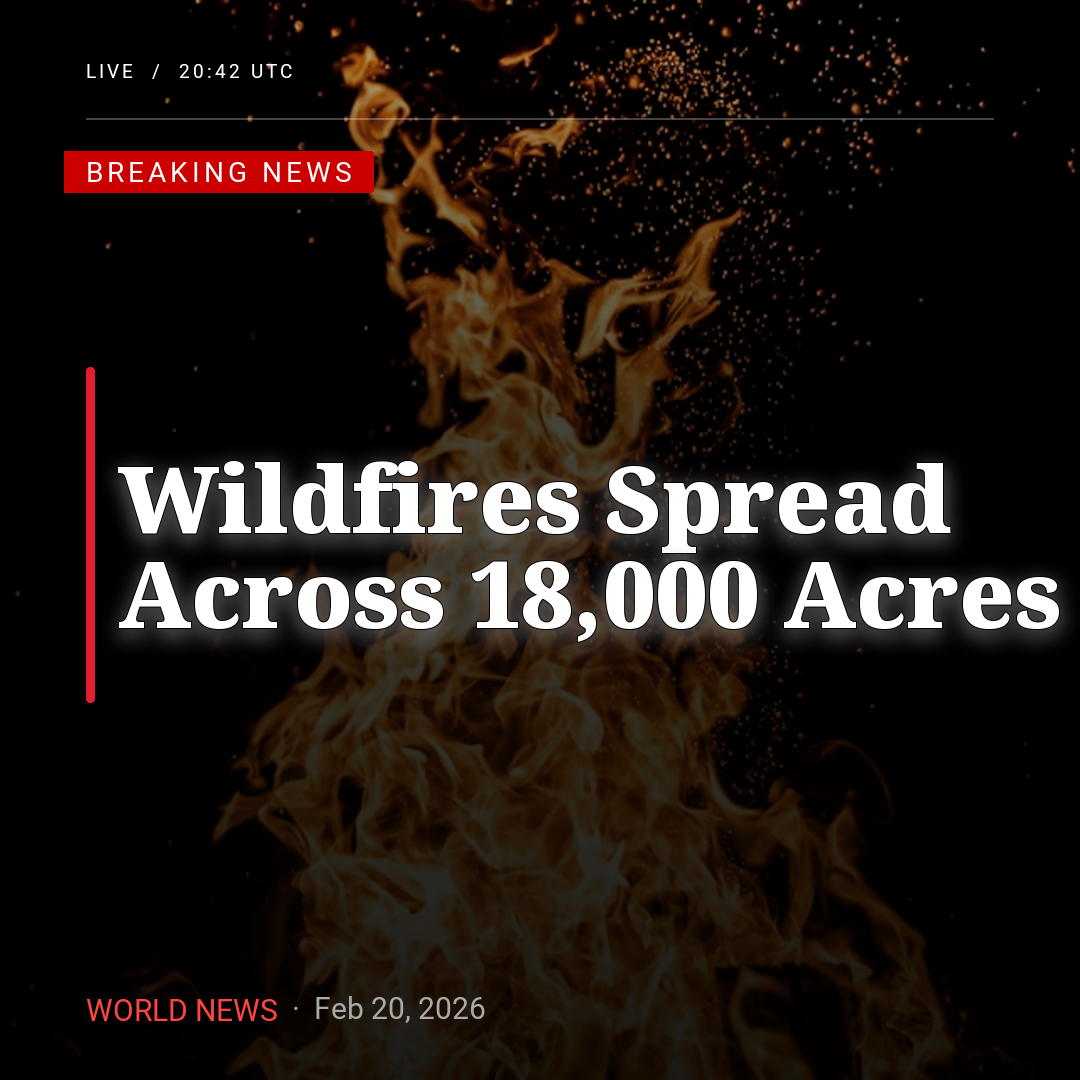
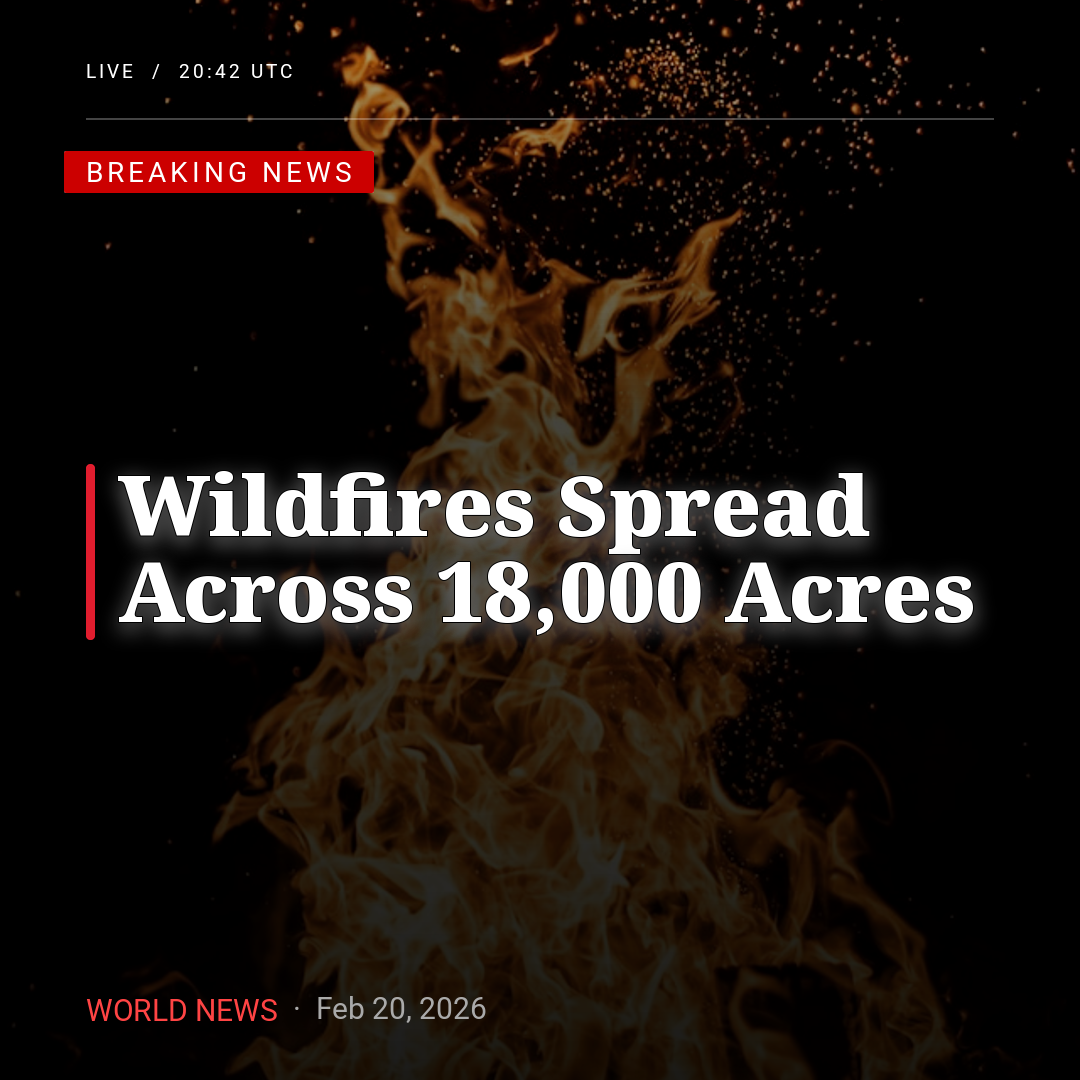
fix(examples): keep the Instagram headline inside its margin and uncover the Shorts headline
- Instagram card: the 92px serif headline ran to x=1060 on a 1080px
  canvas. At 84px it ends at x=972, inside the top rule. The red bar was
  336px tall next to a two-line headline; it now spans just those lines.
- Shorts cover: the tilted phone covered the period of "SHORTS.". The
  phone and its screen labels move down 3% together. diagnose() reports
  the same findings before and after.

Both images are re-rendered, and the docs copies updated.

Claude-Session: https://claude.ai/code/session_01HdhAVhMW1Mh21gLoCn8ssr

diff --git a/examples/instagram_news_card.py b/examples/instagram_news_card.py
@@ -68,9 +68,9 @@ SIZE = 1080
     )
     .shape(
         shape="rectangle",
-        position=("8%", "34%"),
+        position=("8%", 464),
         width=9,
-        height=336,
+        height=176,
         color="#E11D2E",
         border_radius=4,
     )
@@ -78,7 +78,7 @@ SIZE = 1080
     .text(
         content="Wildfires Spread\nAcross 18,000 Acres",
         font="NotoSerif",
-        size=92,
+        size=84,
         color="#FFFFFF",
         weight=900,
         position=("11%", "52%"),

diff --git a/docs/cookbook/instagram-card.md b/docs/cookbook/instagram-card.md
@@ -23,11 +23,12 @@ uv run python examples/instagram_news_card.py
   loads the serif from the bundled font folder; every other layer uses the
   default Roboto.
 - **The red bar is a 9px-wide rectangle.** It is a separate shape, so its
-  height (336px) is set by hand to match the two headline lines.
+  position and height (176px) are set by hand to match the two headline lines.
 - **The source line is one text layer.** Two `TextPart`s give "WORLD NEWS" and
   the date different colors and weights.
-- **Positions are percentages**, such as `("8%", "92%")`, so the same layout
-  works if you change the canvas size.
+- **Most positions are percentages**, such as `("8%", "92%")`, so they scale
+  with the canvas. The red bar is the exception: it uses pixels so it lines up
+  exactly with the headline.
 
 ## Code
 
